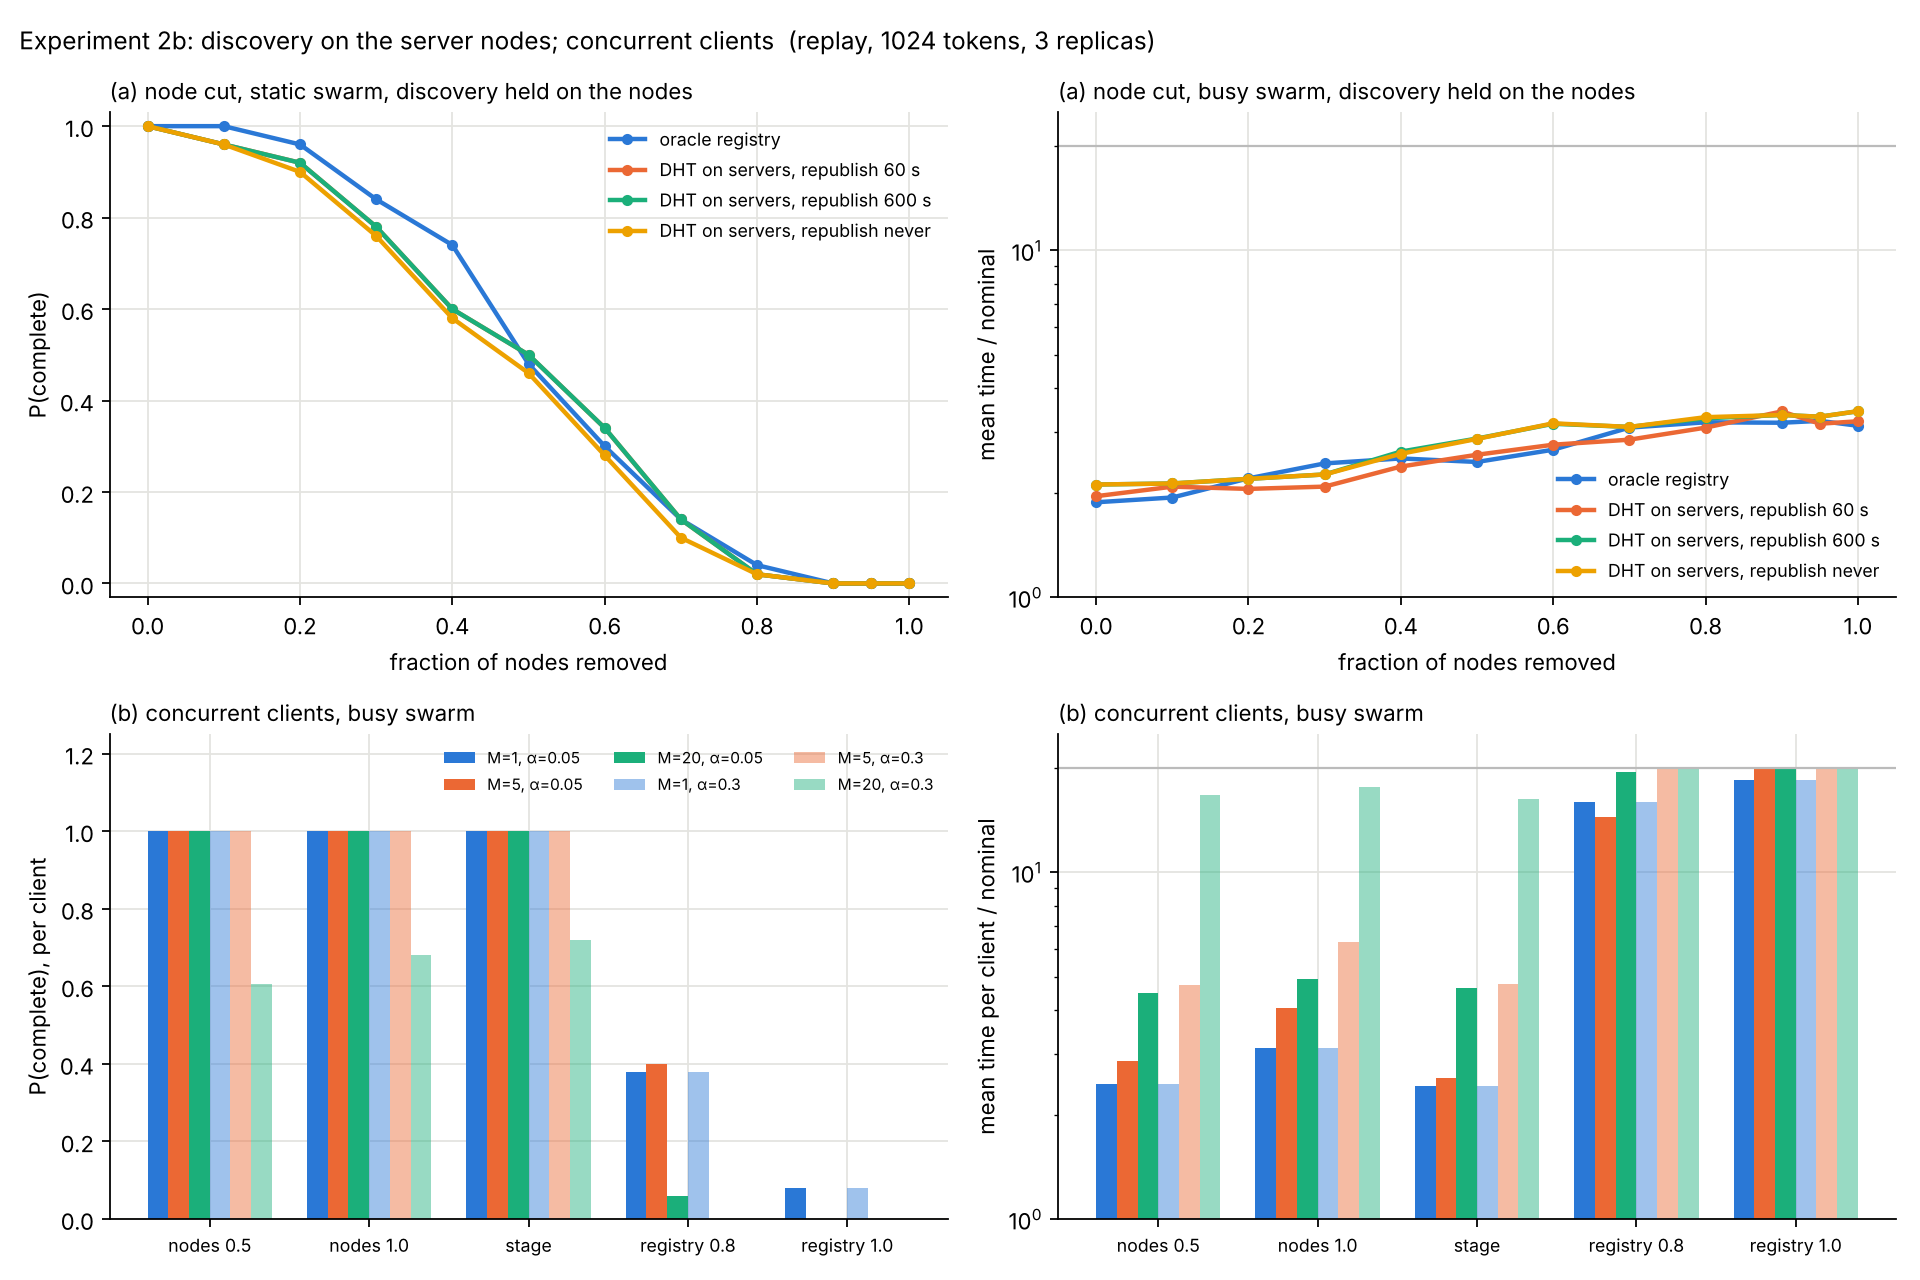
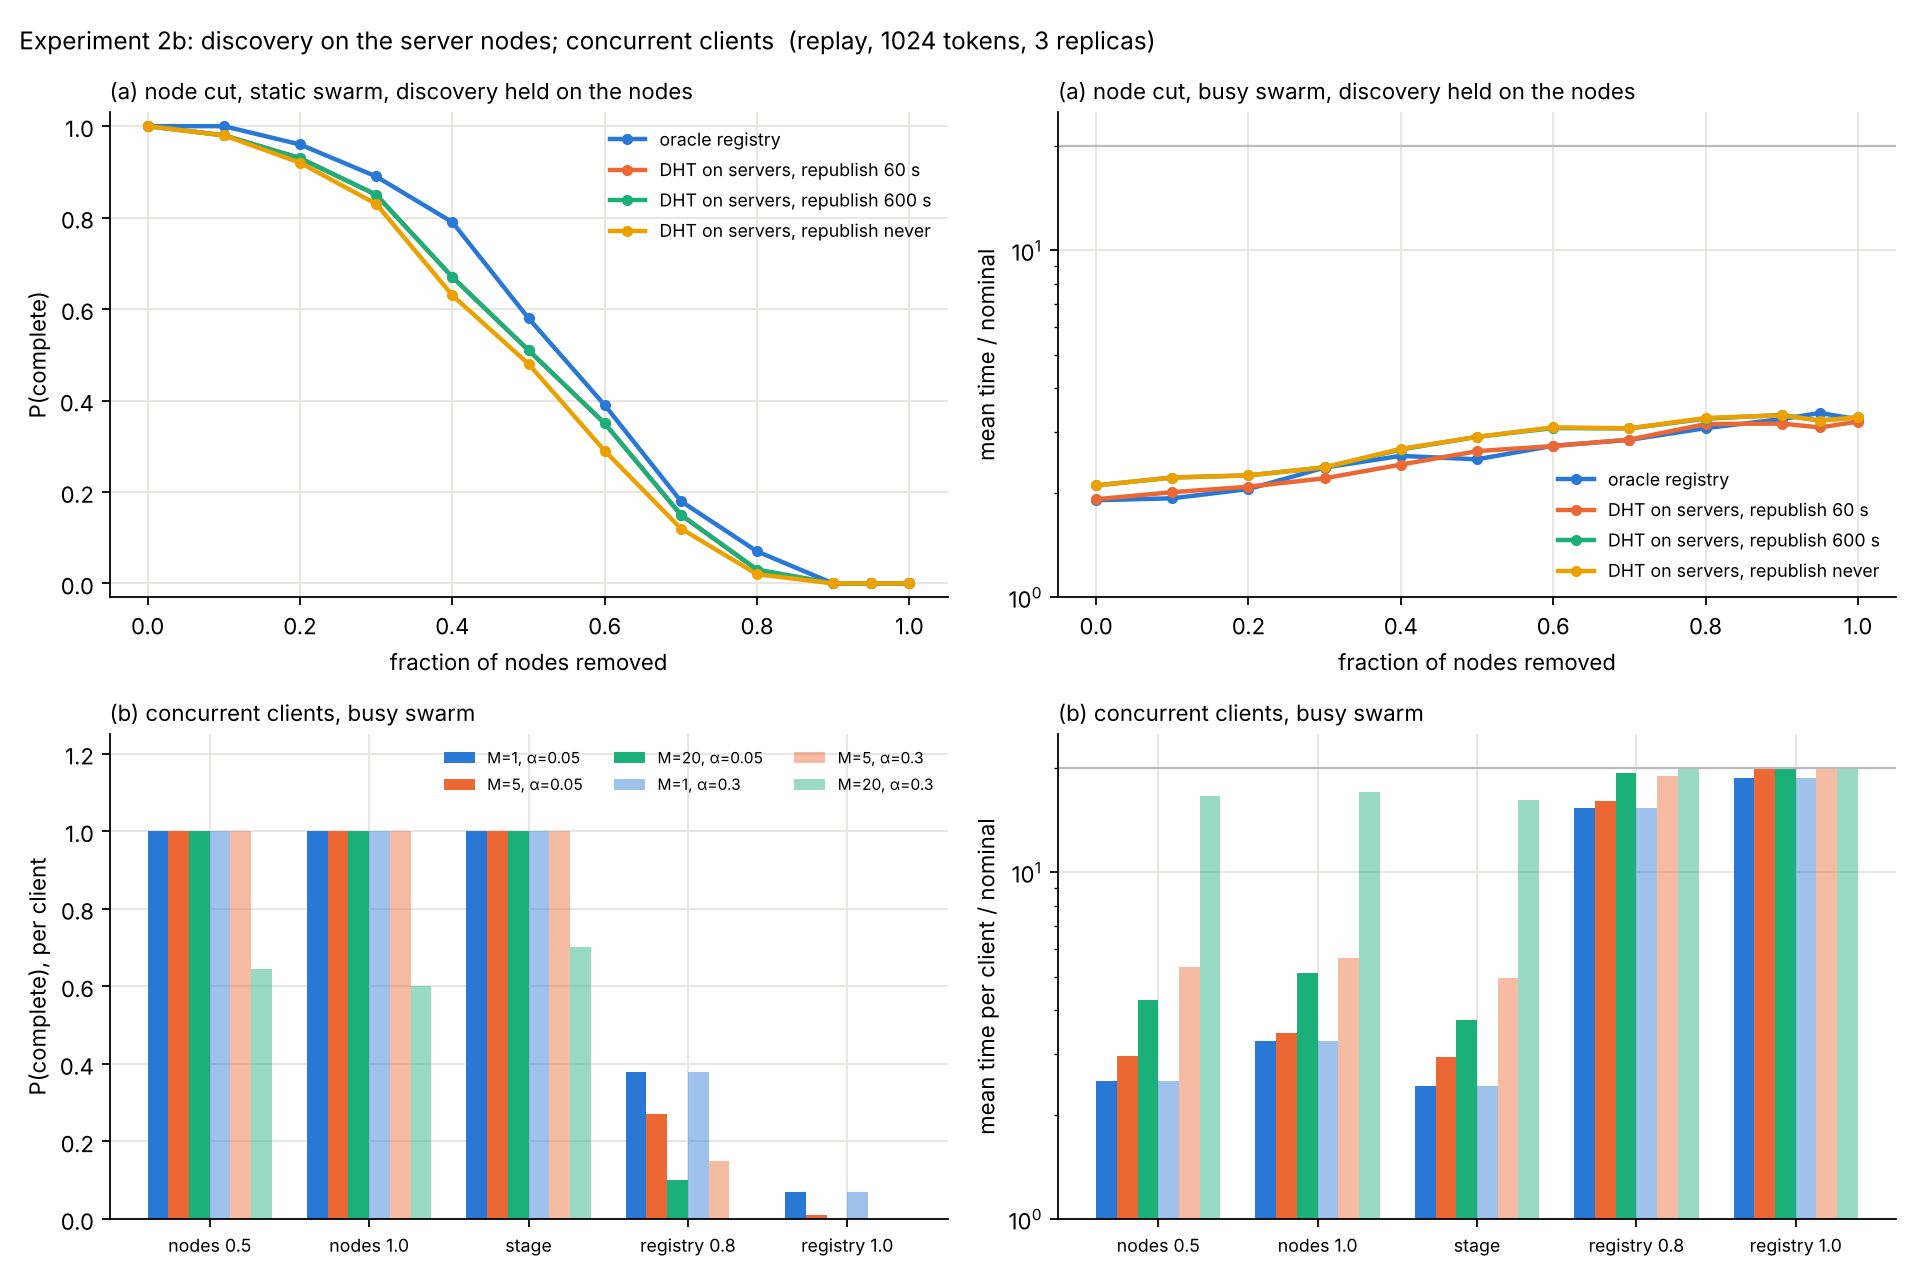
Regenerate extensions/exp2b after the liveness fix (exp2b at 100 seeds); NOTES corrections
Sample sizes stated correctly, DHT busy-swarm time effect quantified (7-16%,
half present at f=0), 'weak batching' used consistently, two rounding fixes.

diff --git a/NOTES.md b/NOTES.md
@@ -308,7 +308,7 @@ under real churn, and it is a client-side constant.
 discovered or used within that window, without the discovery layer. Under busy churn
 with the whole discovery layer removed, completion goes from 0.07 (knows only its
 chain) to 0.11 (60 s cache, Petals' refresh period) to 0.17 (remembers everything).
-At g = 0.8: 0.40 → 0.43 → 0.49. The cache softens the discovery cut by a few points,
+At g = 0.8: 0.38 → 0.42 → 0.48. The cache softens the discovery cut by a few points,
 not by a category: a remembered replica is only useful while it is alive, and in the
 busy swarm it is not alive for long. The claim "80% of discovery stops more requests
 than 100% of nodes" survives for every cache setting.
@@ -319,8 +319,8 @@ entirely on the client:
 
 | client                                          | f = 0.3 | f = 0.5 | f = 0.8 | f = 1.0 |
 |-------------------------------------------------|---------|---------|---------|---------|
-| never evicts slow nodes (Petals)                | 3.1×    | 4.8×    | 7.3×    | 9.1×    |
-| naive: evict any hop slower than 3× nominal     | 3.2×†   | 9.2×†   | 19×†    | DNF     |
+| never evicts slow nodes (Petals)                | 3.1×    | 4.8×    | 7.2×    | 9.1×    |
+| naive: evict any hop slower than 3× nominal     | 3.2×†   | 9.1×†   | 19×†    | DNF     |
 | latency-aware: evict only if a faster node is known | 1.4× | 2.2×    | 5.3×    | 9.1×    |
 
 (mean completion time over nominal, unfinished runs at the 20× deadline; † some runs
@@ -353,9 +353,11 @@ on three other nodes and is discoverable only while one of them is alive; nodes
 republish every 60 s (also tested: 600 s and never). A node cut then also destroys the
 entries whose holders all died, a fraction f³ of the survivors' entries.
 
-Result: almost nothing changes. Static swarm, node cut: P(complete) moves from 0.48 to
-0.46 at f = 0.5 and from 0.04 to 0.02 at f = 0.8, with no republishing at all. Busy
-swarm: completion stays at 1.0 and time-to-complete moves by under 10%. The reason is
+Result: almost nothing changes. Static swarm, node cut, 100 seeds: P(complete) moves
+from 0.58 to 0.48 at f = 0.5 and from 0.07 to 0.02 at f = 0.8, with no republishing at
+all. Busy swarm: completion stays at 1.0 and time-to-complete rises by 7 to 16%, half
+of which is already present with no cut at all (1.90× → 2.10× at f = 0: ordinary
+holder churn makes entries flicker). The reason is
 arithmetic: to lose an entry you must kill all k of its holders, so the discovery
 damage from a node cut is f^k, which at k = 3 is small until f is large, and by then
 the node cut itself has done the work. libp2p's Kademlia uses k = 20; hivemind's DHT
@@ -373,30 +375,32 @@ says nothing about how hard they are.
 **(b) Concurrent clients.** M clients run on the same swarm; a node serving L clients
 runs (1 + α·(L − 1)) times slower, with α = 0.05 (Petals Table 3: 10 clients on 10
 servers get 1.17 vs 1.65 steps/s alone, so ~0.045 per client with GPU batching) and
-α = 0.3 (weak batching). Busy swarm, per-client outcomes, 50 runs for M ≤ 5 and 10
-runs × 20 clients for M = 20:
+α = 0.3 (weak batching). Busy swarm, per-client outcomes. Runs: 100 for M = 1,
+20 runs × 5 clients for M = 5, 10 runs × 20 clients for M = 20; clients within a run
+share one swarm and one cut, so the per-client samples are correlated and the
+effective sample size is nearer the run count.
 
 | cut            | M=1        | M=5, α=.05 | M=20, α=.05 | M=5, α=.3  | M=20, α=.3  |
 |----------------|------------|------------|-------------|------------|-------------|
-| nodes 50%      | 1.00, 2.5× | 1.00, 2.9× | 1.00, 4.5×  | 1.00, 4.7× | 0.60, 17×†  |
-| nodes 100%     | 1.00, 3.1× | 1.00, 4.1× | 1.00, 4.9×  | 1.00, 6.3× | 0.68, 18×†  |
-| stage          | 1.00, 2.4× | 1.00, 2.5× | 1.00, 4.6×  | 1.00, 4.8× | 0.72, 16×†  |
-| registry 80%   | 0.38, 16×† | 0.40, 14×† | 0.06, 19×†  | 0.00, DNF  | 0.00, DNF   |
-| registry 100%  | 0.08, 18×† | 0.00, DNF  | 0.00, DNF   | 0.00, DNF  | 0.00, DNF   |
+| nodes 50%      | 1.00, 2.5× | 1.00, 3.0× | 1.00, 4.3×  | 1.00, 5.3× | 0.65, 17×†  |
+| nodes 100%     | 1.00, 3.3× | 1.00, 3.4× | 1.00, 5.1×  | 1.00, 5.7× | 0.60, 17×†  |
+| stage          | 1.00, 2.4× | 1.00, 2.9× | 1.00, 3.8×  | 1.00, 5.0× | 0.70, 16×†  |
+| registry 80%   | 0.38, 15×† | 0.27, 16×† | 0.10, 19×†  | 0.15, 19×† | 0.00, DNF   |
+| registry 100%  | 0.07, 19×† | 0.01, 20×† | 0.00, DNF   | 0.00, DNF  | 0.00, DNF   |
 
 (P(complete), mean time over nominal; † unfinished clients at the 20× deadline.)
 
 Three things:
 
 - Node and stage cuts still heal with Petals-like batching (α = 0.05), but the heal
-  costs 20 clients 4.5 to 4.9× nominal instead of 2.4 to 3.1×, because the first
+  costs 20 clients 3.8 to 5.1× nominal instead of 2.4 to 3.3×, because the first
   joiner on an emptied stage receives all twenty of them.
 - The discovery cut gets much worse with load: at 80% removed, per-client completion
-  goes from 0.38 (one client) to 0.06 (twenty clients, α = 0.05), and to zero at any
-  M > 1 with α = 0.3. Fewer discoverable replicas means each one carries more clients,
+  goes from 0.38 (one client) to 0.27 (five) to 0.10 (twenty, α = 0.05), and to zero
+  at twenty clients with α = 0.3. Fewer discoverable replicas means each one carries more clients,
   which slows every generation, which lengthens t_remaining in exp(−S·λ·t), which
   loses more chains. Load is a third feedback loop alongside the two in §2 and §5(c).
-- Without batching (α = 0.3), twenty clients turn even a plain node cut into a 30 to
+- With weak batching (α = 0.3), twenty clients turn even a plain node cut into a 30 to
   40% loss: the swarm heals, but the few live nodes run 6.7× slower under the pile-on,
   generations take long enough for churn to break them again, and a third of clients
   never finish. This is the §2 cascade with load as the multiplier instead of

diff --git a/README.md b/README.md
@@ -205,10 +205,10 @@ changes nothing: a node cut reaches discovery only as f^k, so the oracle registr
 not hiding anything, and the registry cut above corresponds to an attack on the DHT
 protocol (eclipse, Sybil, poisoning) rather than on its hosts. **Concurrent clients**
 sharpen everything: with twenty clients and Petals-like batching, node cuts still heal
-but at 4.5 to 4.9× nominal, and an 80% discovery cut drops per-client completion from
-0.38 to 0.06, because load on the few discoverable replicas lengthens every generation
-and churn breaks more chains. Without batching, twenty clients lose a third of their
-requests to a plain node cut.
+but at 3.8 to 5.1× nominal, and an 80% discovery cut drops per-client completion from
+0.38 to 0.10, because load on the few discoverable replicas lengthens every generation
+and churn breaks more chains. With weak batching, twenty clients lose 30 to 40% of
+their requests to a plain node cut.
 
 ![experiment 2b](out/exp2b.png)
 
